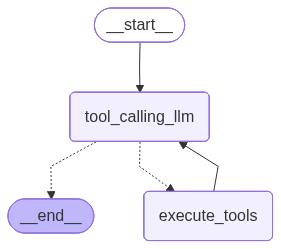
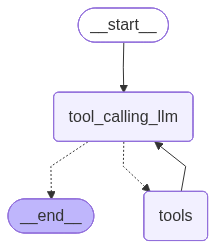
add prebuild agent

diff --git a/tutorials/langchain_tutorial/langgraph_basics.py b/tutorials/langchain_tutorial/langgraph_basics.py
@@ -1,13 +1,14 @@
-from pyexpat.errors import messages
-from pyexpat.errors import messages
+from pprint import pprint
 import random
 from typing import Dict, Literal, List, Annotated
 from urllib import response
+from google_crc32c import value
 from typing_extensions import TypedDict
 from IPython.display import Image, display
 from langgraph.graph import StateGraph, START, END
+from langgraph.graph.state import CompiledStateGraph
+from langgraph.prebuilt import ToolNode,tools_condition
 
-from pprint import pprint
 from langchain_core.messages import (
     SystemMessage,
     AIMessage,
@@ -37,10 +38,12 @@ class State(TypedDict):
 # class MessageState(TypedDict):
 #     messages: Annotated[List[AnyMessage], add_messages]
 
+MAX_TOOL_LOOPS = 5  # Set your max here (e.g., 5 iterations)
 
-class MessageState(MessagesState):
+
+class ExtendedMessagesState(MessagesState):
     # Add any keys needed beyond messages, which is pre-built
-    pass
+    tool_loop_count: int = 0  # New: Specific counter for tool_calling_llm loops
 
 
 def run_add_messages():
@@ -183,6 +186,25 @@ def multiply(a: int, b: int) -> int:
     """
     return a * b
 
+# This will be a tool
+def add(a: int, b: int) -> int:
+    """Adds a and b.
+
+    Args:
+        a: first int
+        b: second int
+    """
+    return a + b
+
+def divide(a: int, b: int) -> float:
+    """Divide a and b.
+
+    Args:
+        a: first int
+        b: second int
+    """
+    return a / b
+  
 
 def run_chat_model():
     messages = [
@@ -218,6 +240,38 @@ def run_chat_model():
     print(tool_call.tool_calls)
 
 
+def run_chat_model_stream():
+    llm = init_langchain_chat_openai()
+    llm_with_tools = llm.bind_tools([multiply])
+
+    question_01 = "What is 2 multiplied by 3"
+    question_02 = "Hello, how are you?"
+    question_03 = "What is two multiplied by 3"
+
+    question = question_01  # Change as needed
+
+    stream = llm_with_tools.stream([HumanMessage(content=question, name="Lance")])
+
+    for i, chunk in enumerate(stream):
+        print(f"Chunk {i}:")
+        print(f"  Content: {chunk.content}")
+
+        if chunk.tool_calls:  # Check if there are tool calls in this chunk
+            for tool_call in chunk.tool_calls:
+                tool_name = tool_call.get("name")  # e.g., 'multiply'
+                tool_args = tool_call.get("args", {})  # e.g., {'a': 2, 'b': 3}
+                tool_id = tool_call.get("id")  # e.g., 'call_123'
+
+                print(f"  Tool Name: {tool_name}")
+                print(f"  Tool Args: {tool_args}")
+                print(f"  Tool ID: {tool_id}")
+
+                # Optional: You can accumulate or process the tool calls here
+                # For example, store them in a list for later execution
+        else:
+            print("  No tool calls in this chunk.")
+
+
 """
 ToolNode: This is a prebuilt LangGraph utility that simplifies tool execution. It takes your tools (e.g., [multiply]) and automatically:
 - Extracts tool calls from the last message.
@@ -237,87 +291,230 @@ def execute_tools(state: MessagesState) -> Dict[str, AnyMessage]:
     tool_results = []
     if hasattr(last_message, "tool_calls"):
         for tool_call in last_message.tool_calls:
-          try:
-            if tool_call["name"] == "multiply":
-                result = multiply(**tool_call["args"])  # Execute the tool
+            try:
+                if tool_call["name"] == "multiply":
+                    result = multiply(**tool_call["args"])  # Execute the tool
+                    tool_results.append(
+                        ToolMessage(
+                            content=str(result),  # Convert result to string
+                            tool_call_id=tool_call["id"],
+                        )
+                    )
+                else:
+                    # Handle unknown tools (optional, for future expansion)
+                    tool_results.append(
+                        ToolMessage(
+                            content=f"Error: Unknown tool: {tool_call['name']}",
+                            tool_call_id=tool_call["id"],
+                        )
+                    )
+            except Exception as e:
+                # Handle any failure (e.g., invalid args, KeyError, TypeError)
                 tool_results.append(
-                    ToolMessage(content=str(result),  # Convert result to string
-                                tool_call_id=tool_call["id"])
+                    ToolMessage(
+                        content=f"Error executing tool: {e}",
+                        tool_call_id=tool_call["id"],
+                    )
                 )
-            else:
-              # Handle unknown tools (optional, for future expansion)
-                tool_results.append(
-                    ToolMessage(content=f"Error: Unknown tool: {tool_call['name']}", tool_call_id=tool_call["id"])
-                )
-          except Exception as e:
-            # Handle any failure (e.g., invalid args, KeyError, TypeError)
-            tool_results.append(
-                ToolMessage(content=f"Error executing tool: {e}", tool_call_id=tool_call["id"])
-            )
     return {"messages": tool_results}
 
 
-def run_graph_with_tool_calling():
+# Conditional Edge (should_continue): This function inspects the last message. If it contains tool calls, it routes to the "tools" node. Otherwise, it ends the graph. This prevents infinite loops and ensures the graph only executes tools when needed.
 
-    llm = init_langchain_chat_openai()
-    llm_with_tools = llm.bind_tools([multiply])
 
-    # define node for llm with tools
-    def tool_calling_llm(state: MessagesState) -> Dict[str, AnyMessage]:
-        messages = state["messages"]
-        result = llm_with_tools.invoke(messages)
-        return {"messages": result}
+# Loop Back Edge: After tool execution, the graph routes back to tool_calling_llm. This allows the LLM to process the tool results and generate a final response (e.g., "The result is 6").
+# add conditional edge to check for tool calls in the last message
+def should_continue(state: ExtendedMessagesState) -> Literal["execute_tools", END]:
+    messages = state["messages"]
+    last_message = messages[-1]
 
-    builder = StateGraph(MessageState)
+    tool_loop_count = state.get("tool_loop_count", 0)
+
+    if tool_loop_count >= MAX_TOOL_LOOPS:
+        print(
+            f"Reached max tool loops ({MAX_TOOL_LOOPS}). Ending graph to prevent infinite loop."
+        )
+        return END
+
+    if hasattr(last_message, "tool_calls") and last_message.tool_calls:
+        return "execute_tools"  # Route to tool execution node
+    else:
+        return END
+
+
+
+
+# define node for llm with tools
+def tool_calling_llm(state: ExtendedMessagesState) -> Dict[str, AnyMessage]:
+    messages = state["messages"]
+    result = llm_with_tools.invoke(messages)
+    # Increment only the tool-specific counter
+    return {
+        "messages": result,
+        "tool_loop_count": state.get("tool_loop_count", 0) + 1,
+    }  # Pass loop_count through state
+
+def build_graph_with_tool_calling_v1(save_graph: bool = False) -> CompiledStateGraph:
+
+    builder = StateGraph(ExtendedMessagesState)
     builder.add_node("tool_calling_llm", tool_calling_llm)
     builder.add_edge(START, "tool_calling_llm")
-
-    # Conditional Edge (should_continue): This function inspects the last message. If it contains tool calls, it routes to the "tools" node. Otherwise, it ends the graph. This prevents infinite loops and ensures the graph only executes tools when needed.
-
-    # Loop Back Edge: After tool execution, the graph routes back to tool_calling_llm. This allows the LLM to process the tool results and generate a final response (e.g., "The result is 6").
-    # add conditional edge to check for tool calls in the last message
-    def should_continue(state: MessagesState) -> Literal["execute_tools", END]:
-        messages = state["messages"]
-        last_message = messages[-1]
-        if hasattr(last_message, "tool_calls") and last_message.tool_calls:
-            return "execute_tools"  # Route to tool execution node
-        else:
-            return END  
 
     # add tool execution node
     builder.add_node("execute_tools", execute_tools)
     builder.add_conditional_edges("tool_calling_llm", should_continue)
-    
+
     # # Route back to LLM for tool execution ?
     # Missing Edge: After execute_tools runs, the graph needs to route back to "tool_calling_llm" so the LLM can process the tool results and generate a final response (e.g., "The result is 6"). Without this, the graph will end after tool execution, leaving you with raw tool messages instead of a complete response.
     builder.add_edge("execute_tools", "tool_calling_llm")
-    
-  
+
     # builder.add_edge("tool_calling_llm", END)
     graph = builder.compile()
 
-    save_graph_image(graph,filename="graph_with_tool_calling_v2.png")
-    
-    question_01 = "What is 2 multiplied by 3"
-    question_02 = f"Hello, how are you?"
-    question_03 = "What is two multiplied by 3"
-    
-    question = question_03
-    
+    if save_graph:
+        save_graph_image(graph, filename="graph_with_tool_calling_v1.png")
+    return graph
+
+
+def build_graph_with_tool_calling_v2(save_graph: bool = False) -> CompiledStateGraph:
+  """This version simplifies the graph by using a ToolNode, which automatically handles tool calls and execution. The conditional edge now only checks for the presence of tool calls to determine whether to route to the ToolNode or end the graph."""
+
+  builder = StateGraph(ExtendedMessagesState)
+  builder.add_node("tool_calling_llm", tool_calling_llm)
+  builder.add_edge(START, "tool_calling_llm")
+  
+  # add ToolNode for automatic tool execution
+  builder.add_node("tools", ToolNode([multiply]))
+  # If the latest message (result) from assistant is a tool call -> tools_condition routes to tools
+  # If the latest message (result) from assistant is a not a tool call -> tools_condition routes to END
+  builder.add_conditional_edges("tool_calling_llm", tools_condition)
+  
+  builder.add_edge("tools", "tool_calling_llm")  # Loop back to LLM after tool execution
+  graph = builder.compile()
+  if save_graph:
+    save_graph_image(graph, filename="graph_with_tool_calling_v2.png")
+  return graph
+  
+
+
+
+
+def run_graph_with_tool_calling(version: int = 1, save_graph: bool = False):
+
+    question = QUESTION_03
+    if version == 1:
+        graph = build_graph_with_tool_calling_v1()
+    elif version == 2:
+        graph = build_graph_with_tool_calling_v2(save_graph=save_graph)
+        
+
     messages = graph.invoke(
-        {"messages": [HumanMessage(content=question, name="Lance")]}
+        {
+            "messages": [HumanMessage(content=question, name="Lance")],
+            "tool_loop_count": 0,
+        }  # Initialize here to ensure it's in the state
     )
     for m in messages["messages"]:
         m.pretty_print()
 
 
+def run_graph_with_tool_calling_stream():
+    question = QUESTION_02
+    graph = build_graph_with_tool_calling_v1()
+    stream = graph.stream(
+        {
+            "messages": [HumanMessage(content=question, name="Lance")],
+            "tool_loop_count": 0,
+        }
+    )
+
+    accumulated_state = {}
+    for i, chunk in enumerate(stream):
+        print(f"\n=== Chunk {i} ===")
+        # Merge chunk updates into accumulated state
+        for node_name, state_update in chunk.items():
+            for key, value in state_update.items():
+                if isinstance(value, list):
+                    accumulated_state.setdefault(key, []).extend(value)
+                else:
+                    accumulated_state.setdefault(key, []).extend([value])
+
+        # Now you can access full state
+        if "messages" in accumulated_state:
+            last_msg = accumulated_state["messages"][-1]
+            last_msg.pretty_print()
+
+
+
+
+def build_math_agent_graph(save_graph: bool = False) -> CompiledStateGraph:
+    llm = init_langchain_chat_openai()
+    tools = [multiply, add, divide]
+    llm_with_tools = llm.bind_tools(tools, parallel_tool_calls=False)
+    
+    # System message
+    sys_msg = SystemMessage(content="You are a helpful assistant tasked with performing arithmetic on a set of inputs.")
+    # Node
+    def assistant(state: MessagesState):
+      return {"messages": [llm_with_tools.invoke([sys_msg] + state["messages"])]}
+    
+    
+    
+    builder = StateGraph(ExtendedMessagesState)
+    # rename tool_calling_llm to agent for clarity in this context
+    builder.add_node("agent", assistant)
+    builder.add_edge(START, "agent")
+
+    # add ToolNode for automatic tool execution
+    builder.add_node("tools", ToolNode(tools))
+    builder.add_conditional_edges("agent", tools_condition)
+    
+    builder.add_edge("tools", "agent")  # Loop back to LLM after tool execution
+    graph = builder.compile()
+    if save_graph:
+        save_graph_image(graph, filename="math_agent_graph.png")
+    return graph
+  
+
+def run_math_agent_graph(save_graph: bool = False):
+    question = QUESTION_04
+    graph = build_math_agent_graph(save_graph=save_graph)
+    messages = [HumanMessage(content=question, name="Lance")]
+    messages = graph.invoke(
+        {
+            "messages": messages,
+            "tool_loop_count": 0,
+        }  # Initialize here to ensure it's in the state``
+    )
+  
+    for m in messages["messages"]:
+        m.pretty_print()  
+    
+  
+  
 if __name__ == "__main__":
     load_env()
 
+    QUESTION_01 = "What is 2 multiplied by 3"
+    QUESTION_02 = f"Hello, how are you?"
+    QUESTION_03 = "What is too multiplied by 3"
+    QUESTION_04 = "What is 2 multiplied by 3, then add 4, then divide by 2?"
+
+    # llm = init_langchain_chat_openai()
+    # llm_with_tools = llm.bind_tools([multiply])
     # print("Graph built successfully!")
     # run_simple_graph()
 
     # run_chat_model()
+    # run_chat_model_stream()
+
     # run_add_messages()
 
-    run_graph_with_tool_calling()
+    # run_graph_with_tool_calling(version=2, save_graph=True)
+
+    # run_graph_with_tool_calling_stream()
+    
+    run_math_agent_graph(save_graph=True)
+    
+    
+    

diff --git a/src/utils/langchain_utils.py b/src/utils/langchain_utils.py
@@ -31,9 +31,9 @@ def save_graph_image(graph:CompiledStateGraph,graph_dir="./images/langgraph_imag
     print(f"Graph saved as '{filename}' - open this file in VS Code to view")
 
     # Alternative: Get Mermaid markup (VS Code can render this)
-    mermaid_code = graph.get_graph().draw_mermaid()
-    print("\nMermaid code (copy to a .md file with ```mermaid):")
-    print(mermaid_code)
+    # mermaid_code = graph.get_graph().draw_mermaid()
+    # print("\nMermaid code (copy to a .md file with ```mermaid):")
+    # print(mermaid_code)
 
     # Save as Markdown file (recommended for VS Code)
     # save_graph_as_markdown(graph)
